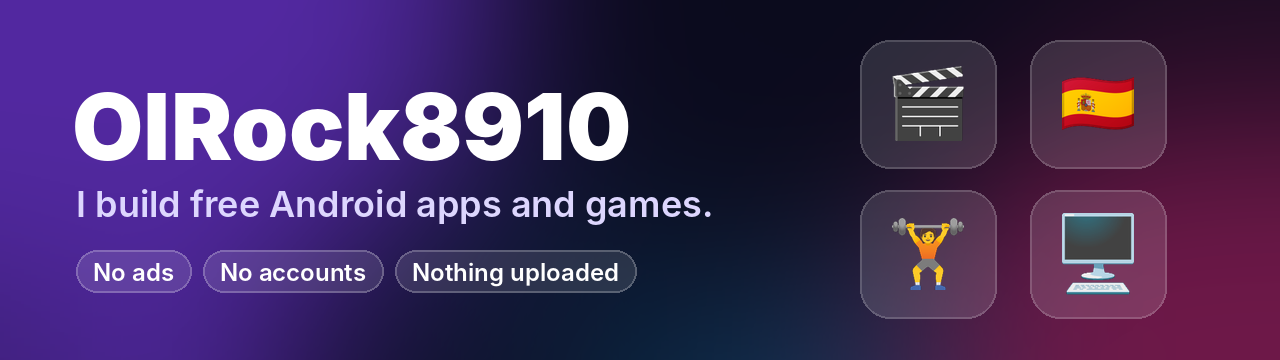
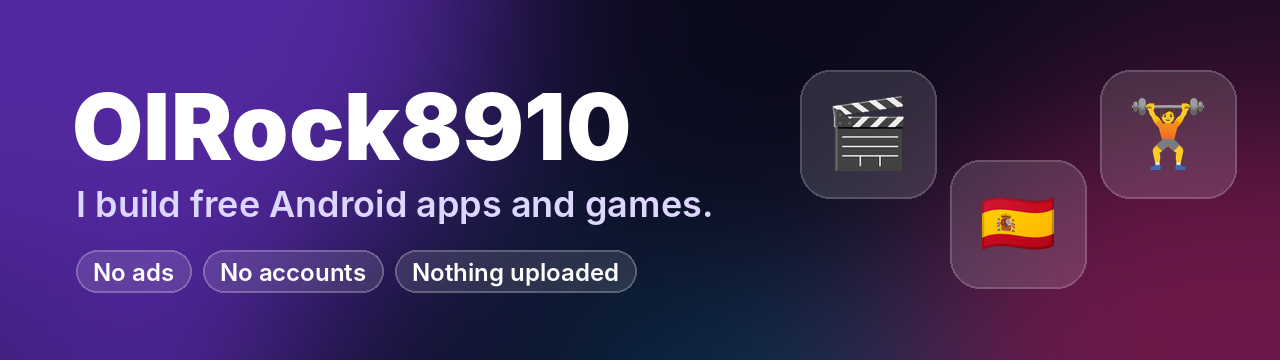
Drop PC Builder from the profile
Claude-Session: https://claude.ai/code/session_01Honh7SydWHJyQx4FjNSLkJ

Changed region(s): [[0.625, 0.0917, 0.9688, 0.8861]]

diff --git a/make-banner.py b/make-banner.py
@@ -1,0 +1,60 @@
+"""Draws banner.png for the GitHub profile README (1280x360)."""
+from pathlib import Path
+
+from PIL import Image, ImageDraw, ImageFilter, ImageFont
+
+HERE = Path(__file__).resolve().parent
+W, H = 1280, 360
+BLACK = '/usr/share/fonts/opentype/inter/Inter-Black.otf'
+SEMI = '/usr/share/fonts/opentype/inter/Inter-SemiBold.otf'
+EMOJI = '/usr/share/fonts/truetype/noto/NotoColorEmoji.ttf'
+
+
+def emoji(ch, size):
+    # Noto Color Emoji only renders at 109px; draw there and scale.
+    f = ImageFont.truetype(EMOJI, 109)
+    tile = Image.new('RGBA', (136, 128), (0, 0, 0, 0))
+    ImageDraw.Draw(tile).text((0, 0), ch, font=f, embedded_color=True)
+    tile = tile.crop(tile.getbbox())
+    return tile.resize((size, int(size * tile.height / tile.width)), Image.LANCZOS)
+
+
+img = Image.new('RGBA', (W, H), (11, 11, 30, 255))
+glow = Image.new('RGBA', (W, H), (0, 0, 0, 0))
+g = ImageDraw.Draw(glow)
+g.ellipse((-260, -320, 560, 380), fill=(124, 58, 237, 160))
+g.ellipse((820, 40, 1560, 700), fill=(219, 39, 119, 120))
+g.ellipse((520, 220, 900, 520), fill=(14, 165, 233, 70))
+img = Image.alpha_composite(img, glow.filter(ImageFilter.GaussianBlur(110)))
+d = ImageDraw.Draw(img)
+
+d.text((72, 70), 'OlRock8910', font=ImageFont.truetype(BLACK, 92), fill=(255, 255, 255))
+d.text((76, 182), 'I build free Android apps and games.', font=ImageFont.truetype(SEMI, 36), fill=(221, 214, 254))
+
+# Glass chips: shapes go on an overlay so their transparency blends in.
+chips = Image.new('RGBA', (W, H), (0, 0, 0, 0))
+cd = ImageDraw.Draw(chips)
+f = ImageFont.truetype(SEMI, 24)
+x, spots = 76, []
+for label in ['No ads', 'No accounts', 'Nothing uploaded']:
+    w = d.textlength(label, font=f) + 34
+    cd.rounded_rectangle((x, 250, x + w, 292), 21, fill=(255, 255, 255, 30), outline=(255, 255, 255, 80), width=2)
+    spots.append((x + 17, 257, label))
+    x += w + 12
+img = Image.alpha_composite(img, chips)
+d = ImageDraw.Draw(img)
+for tx, ty, label in spots:
+    d.text((tx, ty), label, font=f, fill=(255, 255, 255))
+
+# One glass tile per project, staggered.
+for i, ch in enumerate(['🎬', '🇪🇸', '🏋']):
+    cx = 800 + i * 150
+    cy = 70 + (i % 2) * 90
+    tile = Image.new('RGBA', (W, H), (0, 0, 0, 0))
+    ImageDraw.Draw(tile).rounded_rectangle((cx, cy, cx + 136, cy + 128), 30, fill=(255, 255, 255, 34), outline=(255, 255, 255, 70), width=2)
+    img = Image.alpha_composite(img, tile)
+    e = emoji(ch, 72)
+    img.alpha_composite(e, (cx + (136 - e.width) // 2, cy + (128 - e.height) // 2))
+
+img.convert('RGB').save(HERE / 'banner.png', optimize=True)
+print('banner.png written')

diff --git a/README.md b/README.md
@@ -16,8 +16,6 @@ and nothing uploaded** — everything stays on your phone. Most of them live in
 | The videos and music already on your phone, in a streaming-app layout with playlists and lock-screen controls. | Learn Spanish describing words through 19 mini games — bubble pop, word ninja, whack-a-word and more. | A gym tracker with a black-glass look: last time's weights filled in, a graph for every lift, PR celebrations. |
 | <sub>TypeScript · Capacitor</sub> | <sub>JavaScript · Android WebView</sub> | <sub>Kotlin · Jetpack Compose</sub> |
 
-🖥 **[PC Builder](https://github.com/OlRock8910/video-player)** — a 3D PC-building simulator: open the case, seat the CPU, route the cables, power it on and benchmark it. <sub>TypeScript · Three.js</sub>
-
 ## 🛠 What I build with
 
 <p>
@@ -27,7 +25,6 @@ and nothing uploaded** — everything stays on your phone. Most of them live in
   <img alt="JavaScript" src="https://img.shields.io/badge/JavaScript-F7DF1E?style=flat-square&logo=javascript&logoColor=black">
   <img alt="HTML5" src="https://img.shields.io/badge/HTML5-E34F26?style=flat-square&logo=html5&logoColor=white">
   <img alt="CSS" src="https://img.shields.io/badge/CSS-1572B6?style=flat-square&logo=css3&logoColor=white">
-  <img alt="Three.js" src="https://img.shields.io/badge/Three.js-000000?style=flat-square&logo=threedotjs&logoColor=white">
   <img alt="Capacitor" src="https://img.shields.io/badge/Capacitor-119EFF?style=flat-square&logo=capacitor&logoColor=white">
   <img alt="Android" src="https://img.shields.io/badge/Android-3DDC84?style=flat-square&logo=android&logoColor=white">
   <img alt="GitHub Actions" src="https://img.shields.io/badge/GitHub_Actions-2088FF?style=flat-square&logo=githubactions&logoColor=white">
